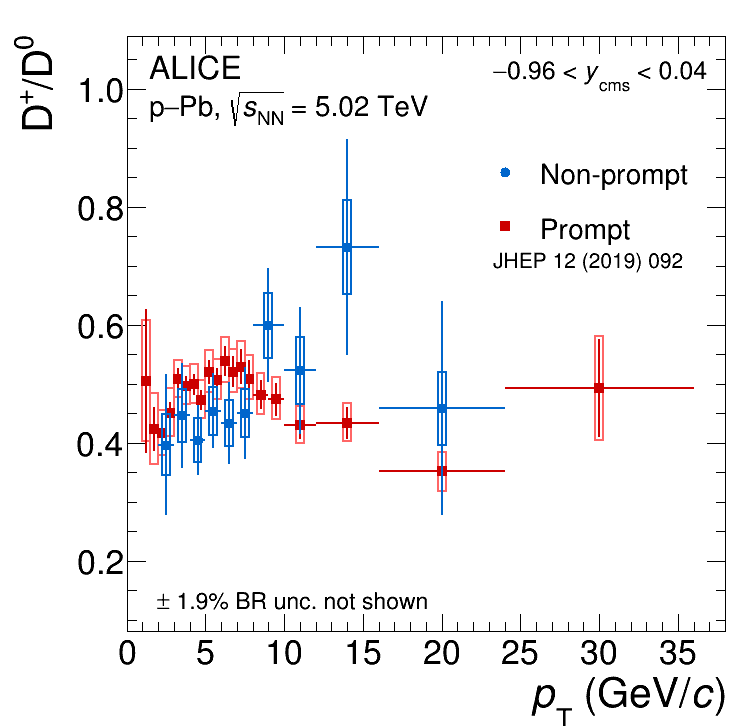
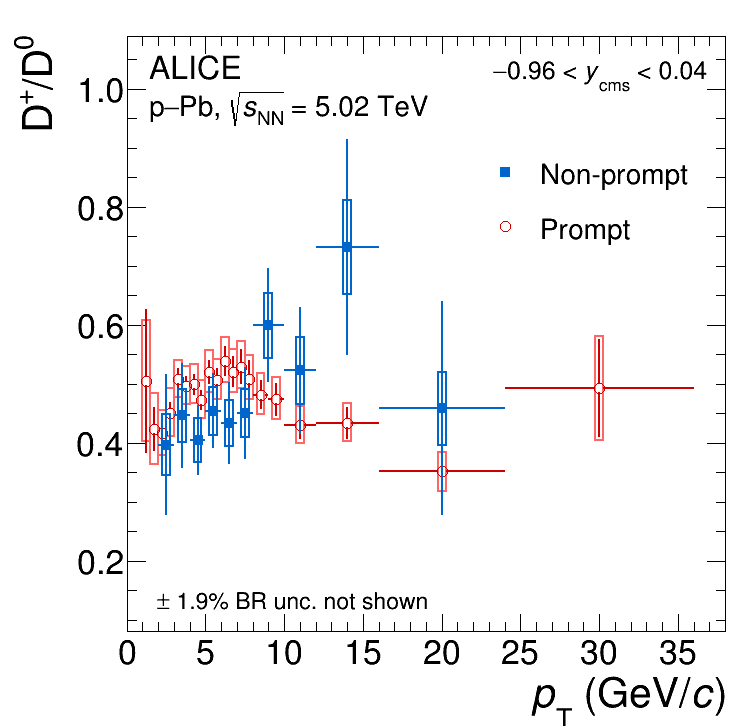
Update Figure 7

diff --git a/Plots/DrawDplusD0Ratio.C b/Plots/DrawDplusD0Ratio.C
@@ -310,7 +310,7 @@ void DrawDplusD0Ratio() {
   //    realerr * hCroSecpPb->GetBinContent(iPt+1));
   //  }
   //
-  //  for(int iPt = 0; iPt < nPtBins; iPt++) {
+  //  for(int iPt = 0; iPt < nPtBins; iPt++) {Marker
   //    double realerr = TMath::Sqrt((hCroSecppclone->GetBinError(iPt+1) /
   //    hCroSecppclone->GetBinContent(iPt+1)) *
   //    (hCroSecppclone->GetBinError(iPt+1) /
@@ -344,14 +344,14 @@ void DrawDplusD0Ratio() {
   promptRpPb->SetStats(0);
   promptRpPb->SetLineColor(kRed + 1);
   promptRpPb->SetMarkerColor(kRed + 1);
-  promptRpPb->SetMarkerStyle(21);
+  promptRpPb->SetMarkerStyle(24);
   promptRpPb->SetMarkerSize(1.2);
 
   SetStyleHisto(RpPbFDD0);
   RpPbFDD0->SetStats(0);
   RpPbFDD0->SetLineColor(kAzure + 2);
   RpPbFDD0->SetMarkerColor(kAzure + 2);
-  RpPbFDD0->SetMarkerStyle(20);
+  RpPbFDD0->SetMarkerStyle(21);
   RpPbFDD0->SetMarkerSize(1.2);
 
   TLatex info;
@@ -400,7 +400,7 @@ void DrawDplusD0Ratio() {
   inforef.SetNDC();
   inforef.SetTextFont(43);
   inforef.SetTextSize(22);
-  inforef.DrawLatex(0.66, 0.63, "JHEP 12 (2019) 092");
+  // inforef.DrawLatex(0.66, 0.63, "JHEP 12 (2019) 092");
 
   // for (int i = 0; i < 11; i++) {
   //   //    cout << "rel stat unc pp :" <<

diff --git a/Plots/DrawDplusD0RatioPPVsPPb.C b/Plots/DrawDplusD0RatioPPVsPPb.C
@@ -342,15 +342,15 @@ void DrawDplusD0RatioPPVsPPb() {
   promptRpPb->SetStats(0);
   promptRpPb->SetLineColor(kRed + 1);
   promptRpPb->SetMarkerColor(kRed + 1);
-  promptRpPb->SetMarkerStyle(21);
-  promptRpPb->SetMarkerSize(1.2);
+  promptRpPb->SetMarkerStyle(24);
+  promptRpPb->SetMarkerSize(1.3);
 
   SetStyleHisto(RpPbFDD0);
   RpPbFDD0->SetStats(0);
   RpPbFDD0->SetLineColor(kAzure + 2);
   RpPbFDD0->SetMarkerColor(kAzure + 2);
-  RpPbFDD0->SetMarkerStyle(20);
-  RpPbFDD0->SetMarkerSize(1.2);
+  RpPbFDD0->SetMarkerStyle(21);
+  RpPbFDD0->SetMarkerSize(1.3);
 
   TLatex info;
   info.SetNDC();
@@ -397,7 +397,7 @@ void DrawDplusD0RatioPPVsPPb() {
   inforef.SetNDC();
   inforef.SetTextFont(43);
   inforef.SetTextSize(22);
-  inforef.DrawLatex(0.66, 0.8, "JHEP 05 (2021) 220");
+  // inforef.DrawLatex(0.66, 0.8, "JHEP 05 (2021) 220");
 
   // for (int i = 0; i < 11; i++) {
   //   //    cout << "rel stat unc pp :" <<
